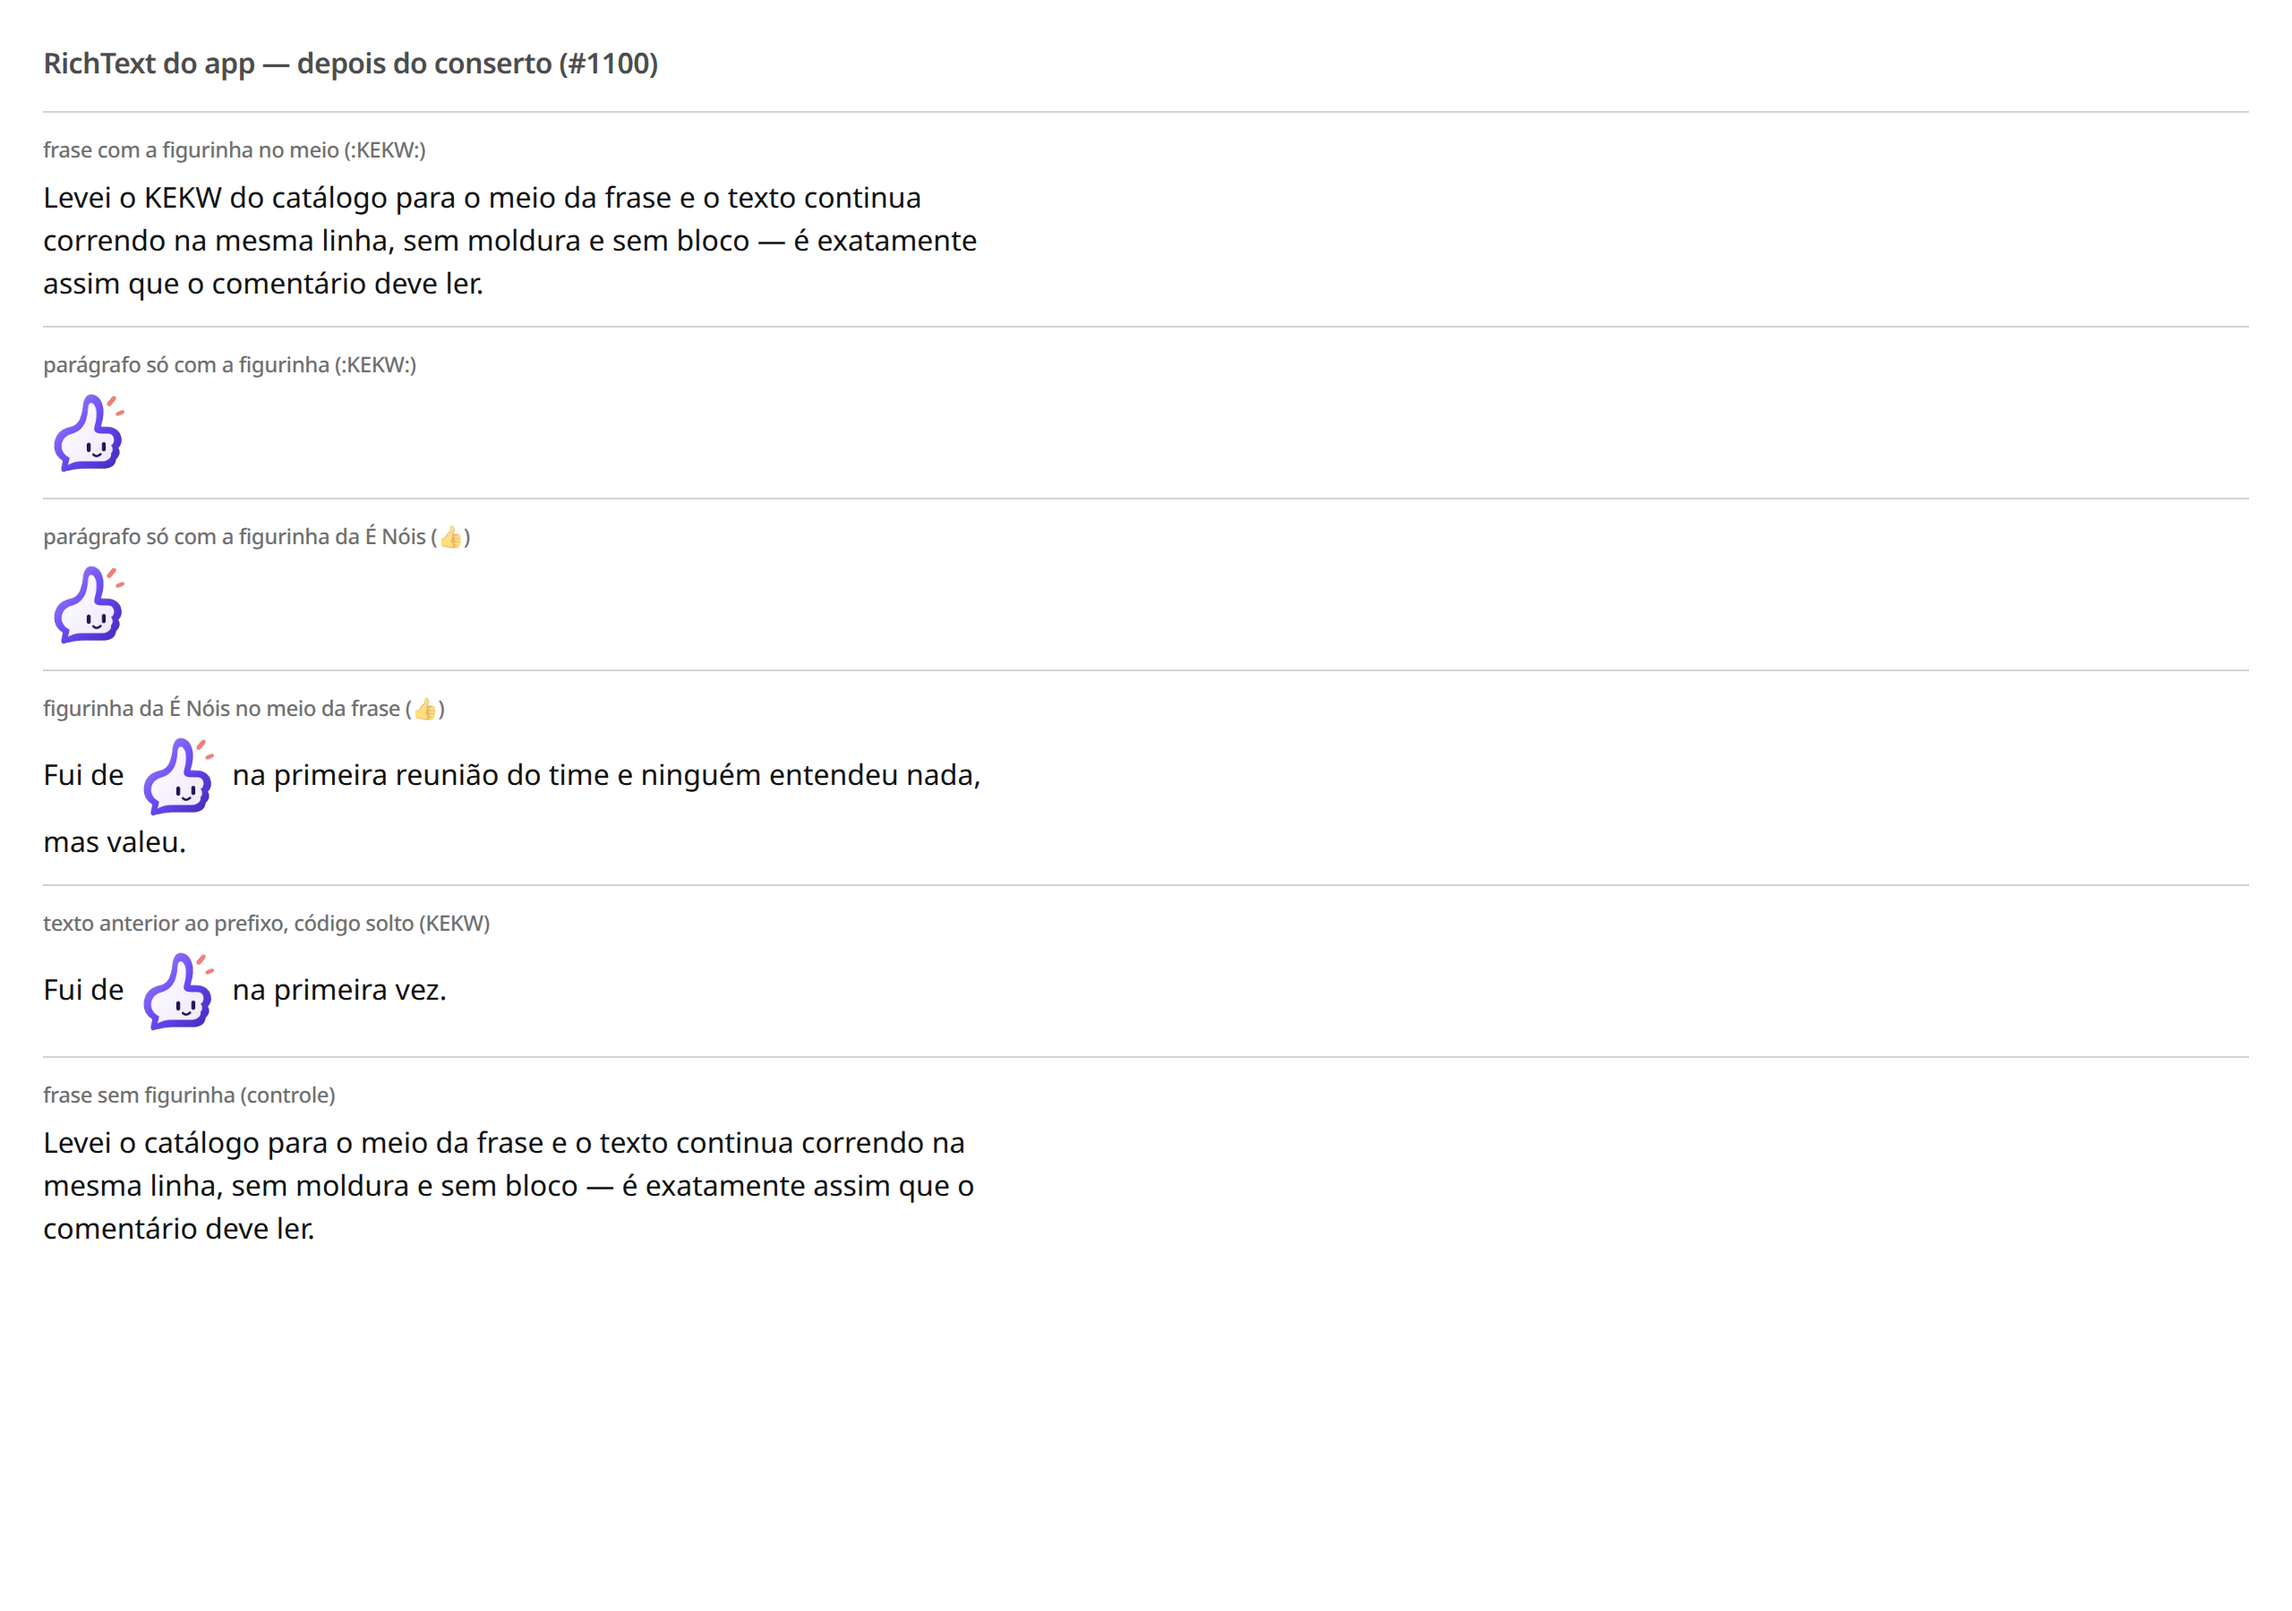
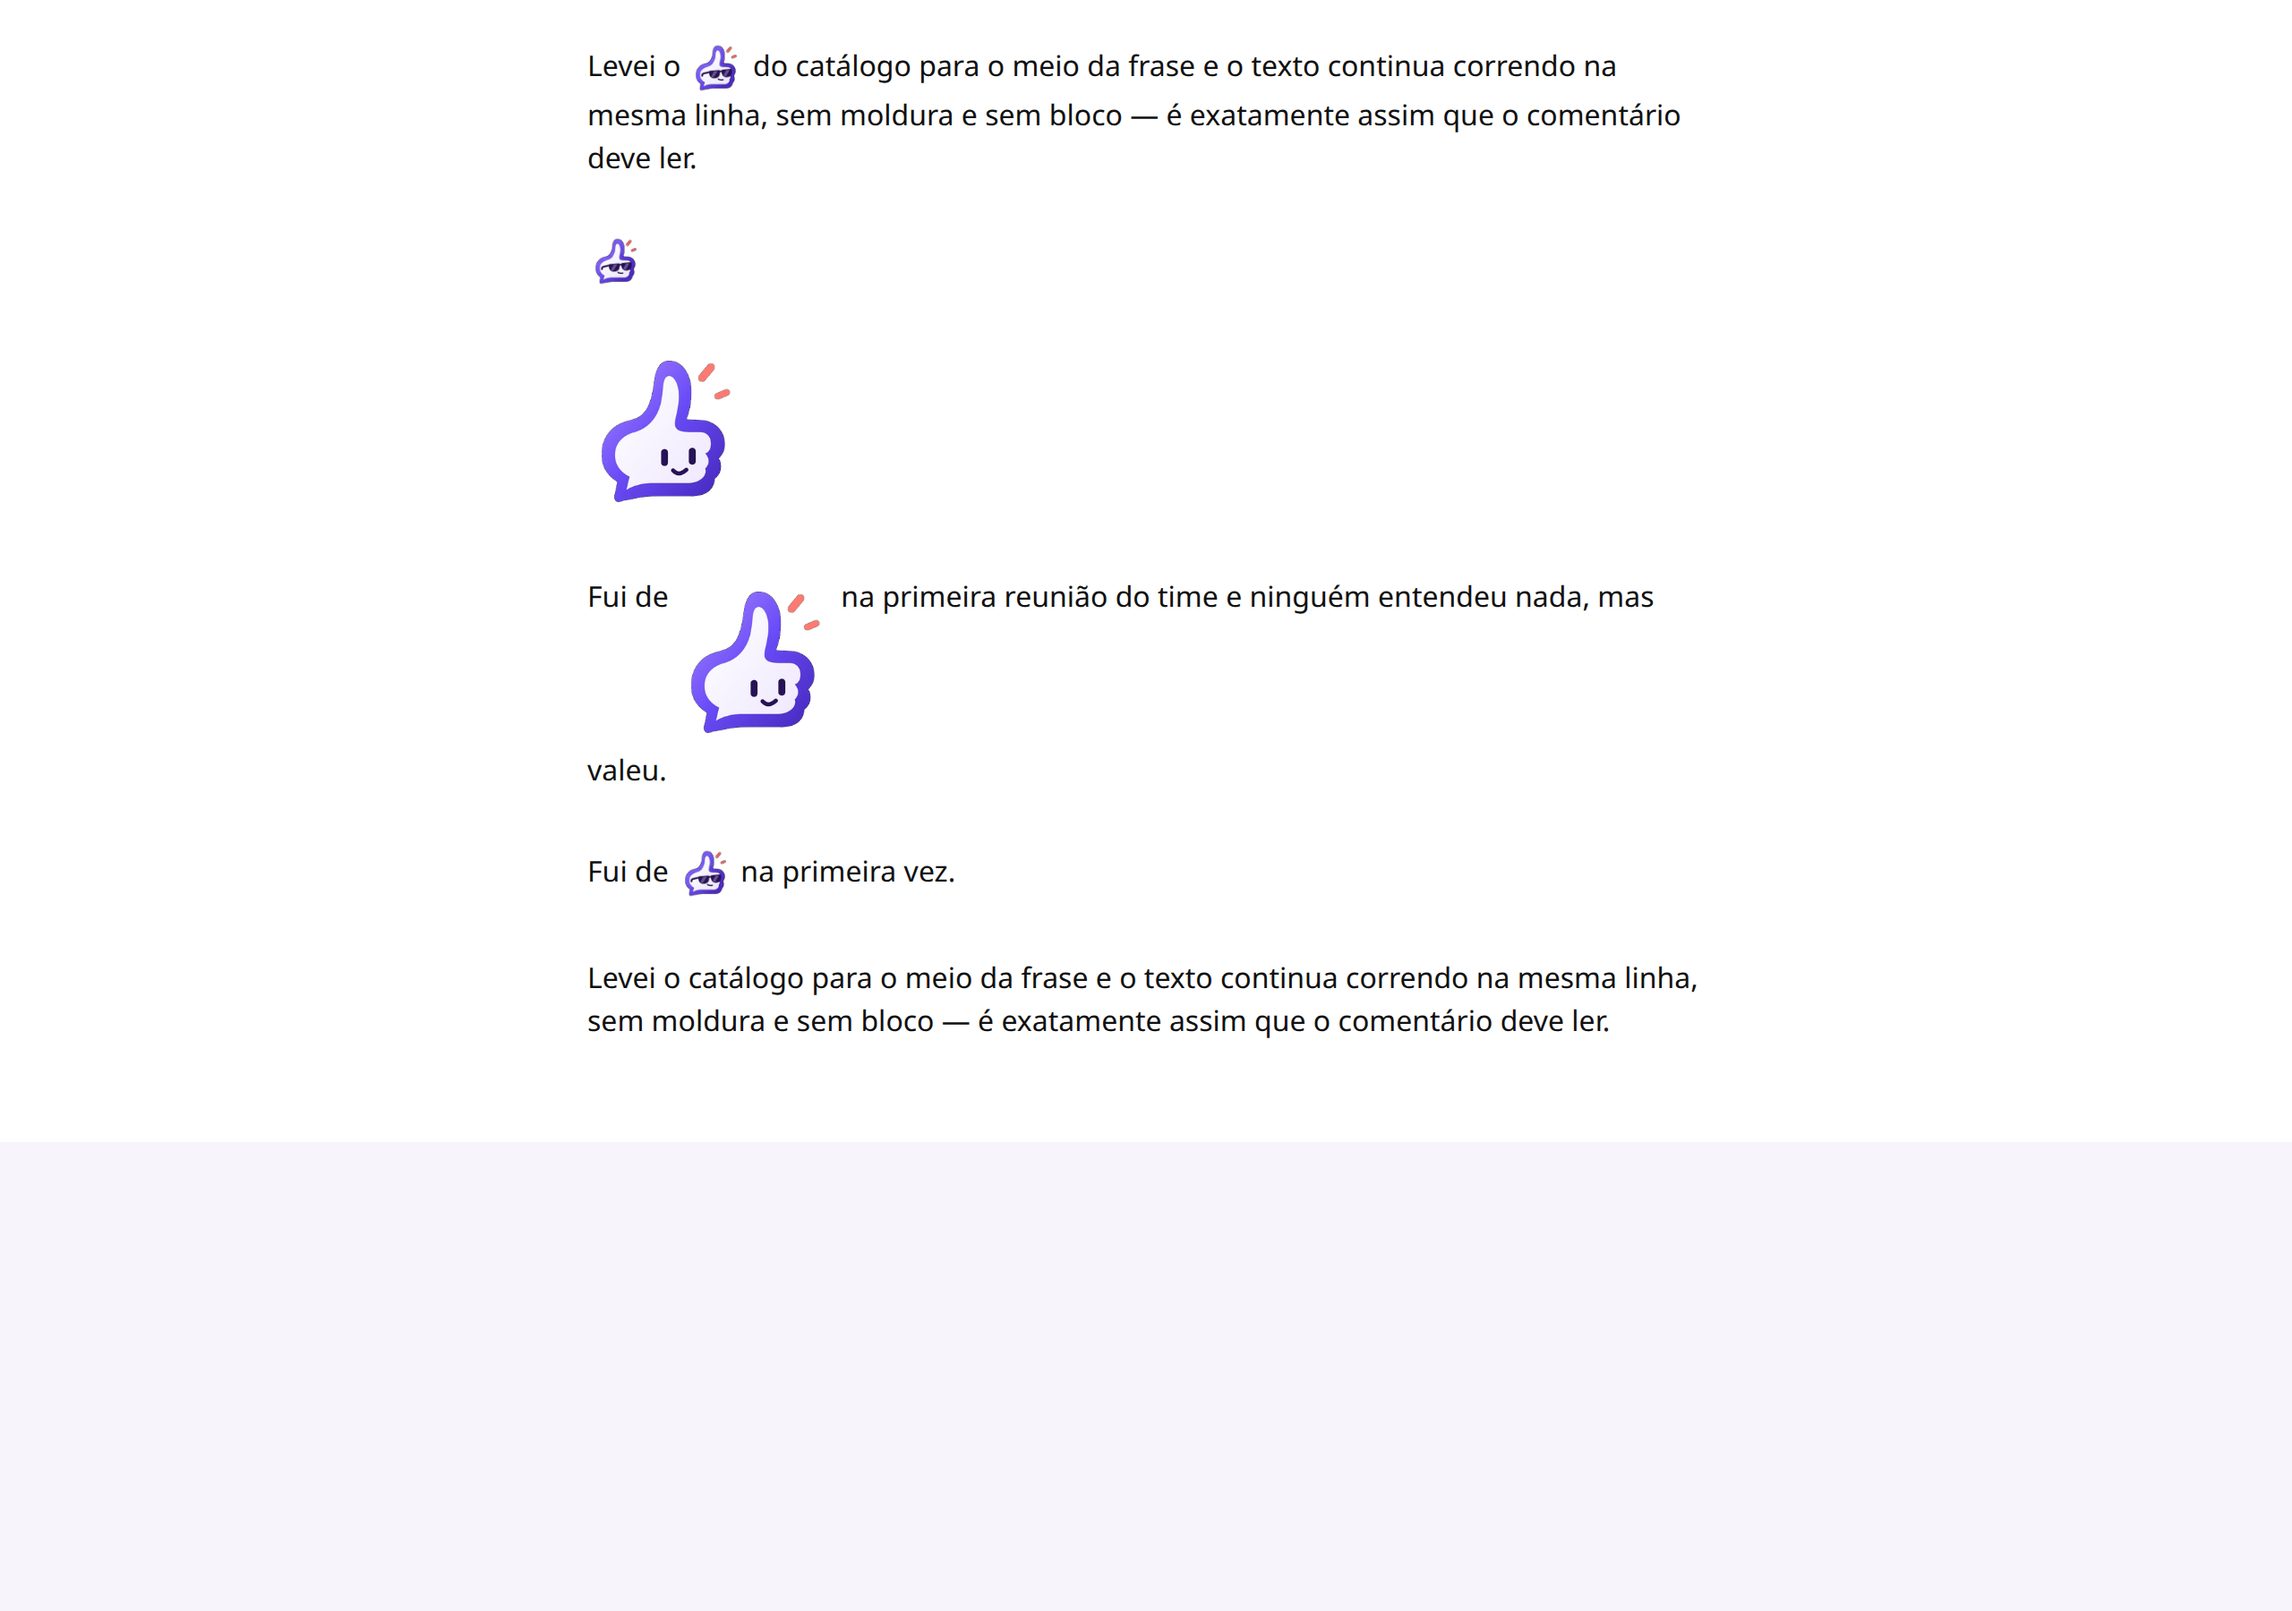
docs(rich-text): refaz a prova visual do #1100 com o código desta branch
A captura antiga foi feita com a classe `enois-figurinha` (a prop `figurinha` do
design system, que só existe na 0.44.0 não publicada). Como esta branch entrega
regras de CSS por seletor de endereço, a prova media outro código.

Agora a marcação é a que a 0.43.1 publicada de fato emite (o emote do catálogo com
a classe do design system, o do pacote É Nóis como mídia anexada), e o CSS é o
`styles.css` compilado desta branch. O antes/depois é a mesma marcação com e sem
as classes da figurinha.

Medido: a figurinha da É Nóis passa de 256×256 (mídia anexada) para 88×88, e o
parágrafo da frase de 304px para 121px, sem estouro horizontal em 1280 nem 390.

diff --git a/docs/proof/1100-figurinha-inline/render.html b/docs/proof/1100-figurinha-inline/render.html
@@ -1,1 +1,1 @@
-<section data-titulo="frase com a figurinha no meio (:KEKW:)"><div><p class="whitespace-pre-line break-words">Levei o KEKW do catálogo para o meio da frase e o texto continua correndo na mesma linha, sem moldura e sem bloco — é exatamente assim que o comentário deve ler.</p></div></section><section data-titulo="parágrafo só com a figurinha (:KEKW:)"><div><p class="whitespace-pre-line break-words"><img alt="KEKW" loading="lazy" referrerpolicy="no-referrer" class="enois-figurinha" src="./public/emotes/image/BTTV/abc123?variant=full"></p></div></section><section data-titulo="parágrafo só com a figurinha da É Nóis (👍)"><div><p class="whitespace-pre-line break-words"><img alt="👍" loading="lazy" referrerpolicy="no-referrer" class="enois-figurinha" src="./public/emojis/enois/like.webp"></p></div></section><section data-titulo="figurinha da É Nóis no meio da frase (👍)"><div><p class="whitespace-pre-line break-words">Fui de <img alt="👍" loading="lazy" referrerpolicy="no-referrer" class="enois-figurinha" src="./public/emojis/enois/like.webp"> na primeira reunião do time e ninguém entendeu nada, mas valeu.</p></div></section><section data-titulo="texto anterior ao prefixo, código solto (KEKW)"><div><p class="whitespace-pre-line break-words">Fui de <img alt="KEKW" loading="lazy" referrerpolicy="no-referrer" class="enois-figurinha" src="./public/emotes/image/BTTV/abc123?variant=full"> na primeira vez.</p></div></section><section data-titulo="frase sem figurinha (controle)"><div><p class="whitespace-pre-line break-words">Levei o catálogo para o meio da frase e o texto continua correndo na mesma linha, sem moldura e sem bloco — é exatamente assim que o comentário deve ler.</p></div></section>
+<section data-titulo="frase com a figurinha no meio (:KEKW:)"><div><p class="whitespace-pre-line break-words">Levei o <img alt="KEKW" loading="lazy" referrerpolicy="no-referrer" class="inline-block h-[1.75em] w-auto max-w-none align-middle" src="./public/emotes/image/BTTV/abc123?variant=full"> do catálogo para o meio da frase e o texto continua correndo na mesma linha, sem moldura e sem bloco — é exatamente assim que o comentário deve ler.</p></div></section><section data-titulo="parágrafo só com a figurinha (:KEKW:)"><div><p class="whitespace-pre-line break-words"><img alt="KEKW" loading="lazy" referrerpolicy="no-referrer" class="inline-block h-[1.75em] w-auto max-w-none align-middle" src="./public/emotes/image/BTTV/abc123?variant=full"></p></div></section><section data-titulo="parágrafo só com a figurinha da É Nóis (👍)"><div><p class="whitespace-pre-line break-words"><img alt="" loading="lazy" referrerpolicy="no-referrer" class="my-1 max-h-96 rounded-xl border border-border-soft" src="./public/emojis/enois/like.webp"></p></div></section><section data-titulo="figurinha da É Nóis no meio da frase (👍)"><div><p class="whitespace-pre-line break-words">Fui de <img alt="" loading="lazy" referrerpolicy="no-referrer" class="my-1 max-h-96 rounded-xl border border-border-soft" src="./public/emojis/enois/like.webp"> na primeira reunião do time e ninguém entendeu nada, mas valeu.</p></div></section><section data-titulo="texto anterior ao prefixo, código solto (KEKW)"><div><p class="whitespace-pre-line break-words">Fui de <img alt="KEKW" loading="lazy" referrerpolicy="no-referrer" class="inline-block h-[1.75em] w-auto max-w-none align-middle" src="./public/emotes/image/BTTV/abc123?variant=full"> na primeira vez.</p></div></section><section data-titulo="frase sem figurinha (controle)"><div><p class="whitespace-pre-line break-words">Levei o catálogo para o meio da frase e o texto continua correndo na mesma linha, sem moldura e sem bloco — é exatamente assim que o comentário deve ler.</p></div></section>

diff --git a/docs/proof/1100-figurinha-inline/README.md b/docs/proof/1100-figurinha-inline/README.md
@@ -1,42 +1,59 @@
 # #1100 — figurinha no meio do texto
 
 No comentário, a figurinha saía no desenho da **mídia anexada**: 256×256, com moldura e margem
-vertical, e ela quebrava a frase em três pedaços. Com a classe `enois-figurinha` (design system,
-PR #388) ela cabe na linha como um emote de verdade, e um parágrafo que é só a figurinha ganha o
-tamanho maior da regra `p:has(> .enois-figurinha:only-child)`.
+vertical, e ela quebrava a frase em três pedaços. Com as regras de **endereço** de
+`src/styles.css` (`p img[src*="/emotes/image/"]` para o catálogo, `img.rounded-xl[src*="/emojis/enois/"]`
+para o pacote É Nóis) ela cabe na linha como um emote de verdade, e um parágrafo que é só a
+figurinha ganha o tamanho destacado.
 
 ## Como a captura foi feita
 
 1. `render.test.tsx.txt` monta o `RichText` real do app (o mesmo componente da tela: `RichText` do
-   front → `RichText` do design system → `figurinha={{ classe: "enois-figurinha", ehFigurinha }}`)
-   em seis cenários, com o índice de figurinhas vindo do `fetch` falso no mesmo formato de
-   `GET /emotes/index`. Copiado para `src/prova-1100.test.tsx` e rodado com `npx vitest run`, ele
-   grava a marcação em `/tmp/prova-1100/corpo.html` — é o `render.html` deste diretório.
-2. A mesma marcação foi embrulhada numa página que carrega o `styles.css` do design system com a
-   classe `enois-figurinha` (build do PR #388) e as imagens locais: o joinha É Nóis
-   (`public/emojis/enois/like.webp`) e uma das figurinhas do catálogo usada também como retrato
-   do proxy (`/emotes/image/BTTV/…`). Nada de rede na captura.
-3. Screenshot no Chrome headless (playwright-core, `/usr/bin/google-chrome`) em 1280 e 390 de
-   largura, página inteira, `deviceScaleFactor: 2`.
-4. O "antes" é a **mesma** marcação com o atributo `class` da figurinha removido: é exatamente o
-   que o app desenha sem a prop, então a comparação é do mesmo texto, mesma fonte e mesma largura.
+   front → `RichText` do design system) em seis cenários, com o índice de figurinhas vindo do
+   `fetch` falso no mesmo formato de `GET /emotes/index`. Copiado para `src/prova-1100.test.tsx` e
+   rodado com `npx vitest run`, ele grava a marcação em `/tmp/prova-1100/corpo.html` — é o
+   `render.html` deste diretório. **A marcação é a que a `0.43.1` publicada de fato emite**: a
+   figurinha do catálogo sai com a classe do design system (`inline-block h-[1.75em] …`) e a do
+   pacote É Nóis sai como mídia (`my-1 max-h-96 rounded-xl …`) — não há classe `enois-figurinha`,
+   que só existe na `0.44.0`, ainda não publicada.
+2. `shot-1100.mjs` renderiza essa marcação numa página que carrega o `styles.css` **compilado
+   desta branch** (`npx vite build` → `.vercel/output/static/assets/styles-*.css`, copiado para
+   `styles.css`) e as imagens locais: o joinha É Nóis (`public/emojis/enois/like.webp`) e um emote
+   real do pacote no lugar do proxy (`/emotes/image/BTTV/…`). Nada de rede na captura.
+3. Screenshot no Chrome headless via CDP em 1280 e 390 de largura, página inteira,
+   `deviceScaleFactor: 2`.
+4. O "antes" é a **mesma** marcação com as classes da figurinha removidas: é exatamente o que a
+   tela desenha sem as regras de endereço, então a comparação é do mesmo texto, mesma fonte e
+   mesma largura.
 
-## Medido (altura do parágrafo, px)
+## Medido (altura do parágrafo / largura da imagem, px)
 
 | Cenário                                        | 1280 antes | 1280 depois | 390 antes | 390 depois |
 | ---------------------------------------------- | ---------: | ----------: | --------: | ---------: |
-| frase com a figurinha no meio                  |         72 |          72 |        96 |         96 |
-| parágrafo só com a figurinha                   |        256 |          48 |       256 |         48 |
-| parágrafo só com a figurinha da É Nóis         |        256 |          48 |       256 |         48 |
-| figurinha da É Nóis no meio da frase           |        304 |          72 |       328 |         72 |
-| texto anterior ao prefixo, código solto (KEKW) |        304 |          48 |       304 |         48 |
-| frase sem figurinha (controle)                 |         72 |          72 |        96 |         96 |
+| frase com a figurinha no meio                  |      76/28 |       76/28 |     100/28 |      100/28 |
+| parágrafo só com a figurinha                   |      28/28 |       28/28 |      28/28 |       28/28 |
+| parágrafo só com a figurinha da É Nóis         |    256/256 |       97/88 |    256/256 |       97/88 |
+| figurinha da É Nóis no meio da frase           |    304/256 |      121/88 |    328/256 |      121/88 |
+| texto anterior ao prefixo, código solto (KEKW) |      28/28 |       28/28 |      28/28 |       28/28 |
+| frase sem figurinha (controle)                 |       48/– |        48/– |      96/– |       96/– |
 
-A figurinha no meio da frase passa de 256×256 para 48×48 nas duas larguras e não transborda
+A figurinha da É Nóis passa de 256×256 para 88×88 nas duas larguras e não transborda
 horizontalmente em nenhuma delas (`estoura: false` em todos os cenários medidos).
 
 - `antes-1280.png` / `depois-1280.png` — no desktop, a frase da É Nóis caía em três linhas.
 - `antes-390.png` / `depois-390.png` — no telefone, o joinha ocupava quase uma tela.
 
-A captura usa o CSS do design system já com a classe. Enquanto o front não puxar `^0.43.2` com a
-classe, a tela continua com o desenho antigo — é por isso que a prop e a versão sobem juntas.
+## As regras de endereço fazem o trabalho
+
+A figurinha do **catálogo** já sai da `0.43.1` com a classe do design system (tamanho do texto),
+mas a do **pacote É Nóis** sai como mídia anexada (`rounded-xl`, 256px). A regra de endereço pega
+os dois casos e ainda cobre texto antigo. Medido numa página só com as regras desta branch:
+
+| Imagem chegando como `rounded-xl` (mídia) | antes | depois |
+| ----------------------------------------- | ----: | -----: |
+| catálogo (`/emotes/image/…`)              |   256 |     28 |
+| pacote É Nóis (`/emojis/enois/…`)         |   256 |     88 |
+
+É por isso que a classe `enois-figurinha` (a prop `figurinha` do design system) **não** entra
+aqui: ela só existe na `0.44.0`, que ainda não foi publicada. Enquanto o pacote publicado for a
+`0.43.1`, quem decide o tamanho é o seletor de endereço.
